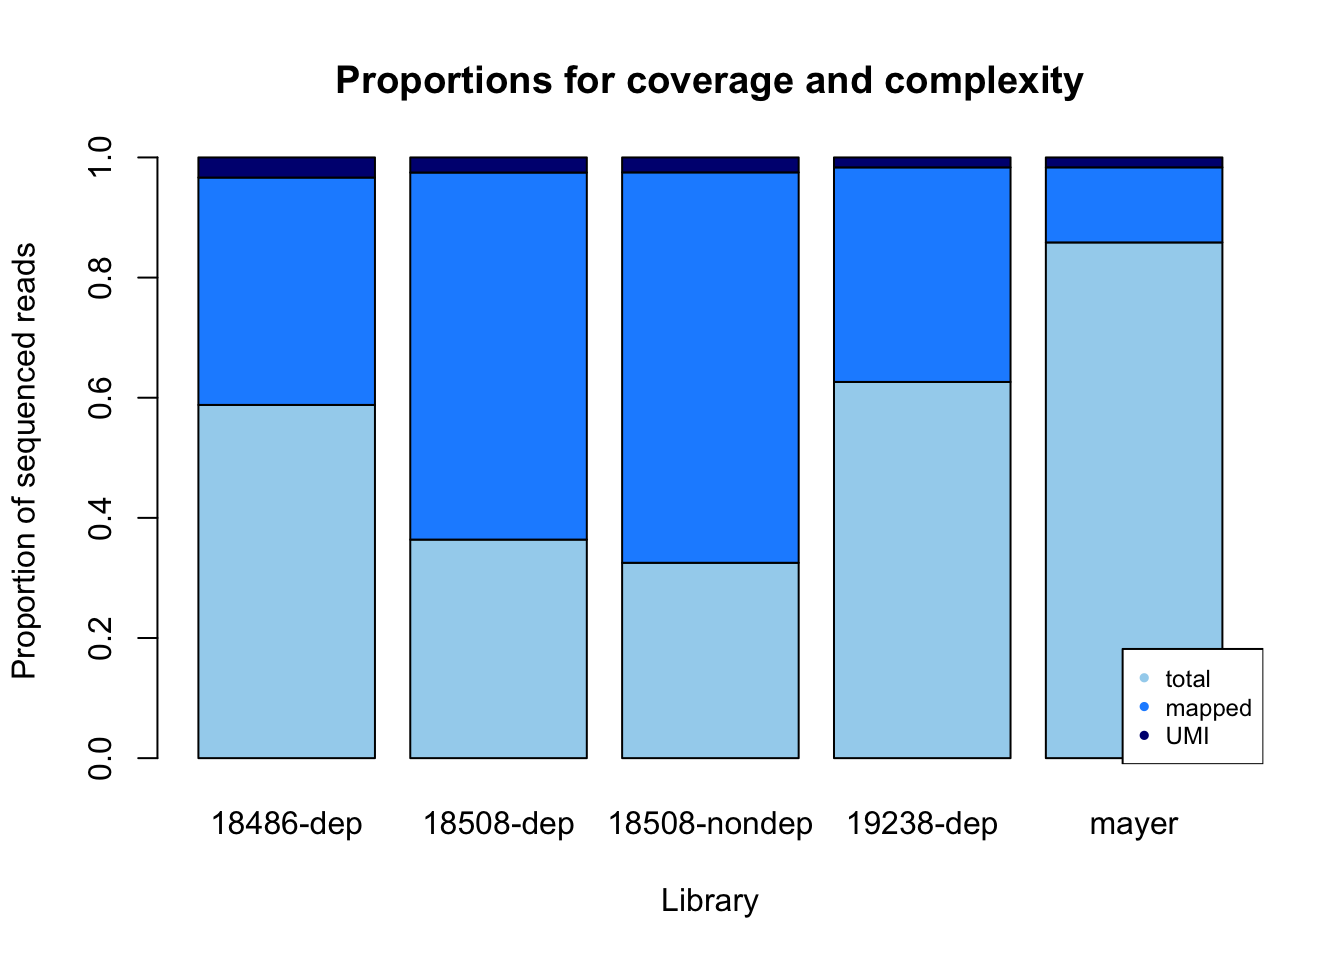
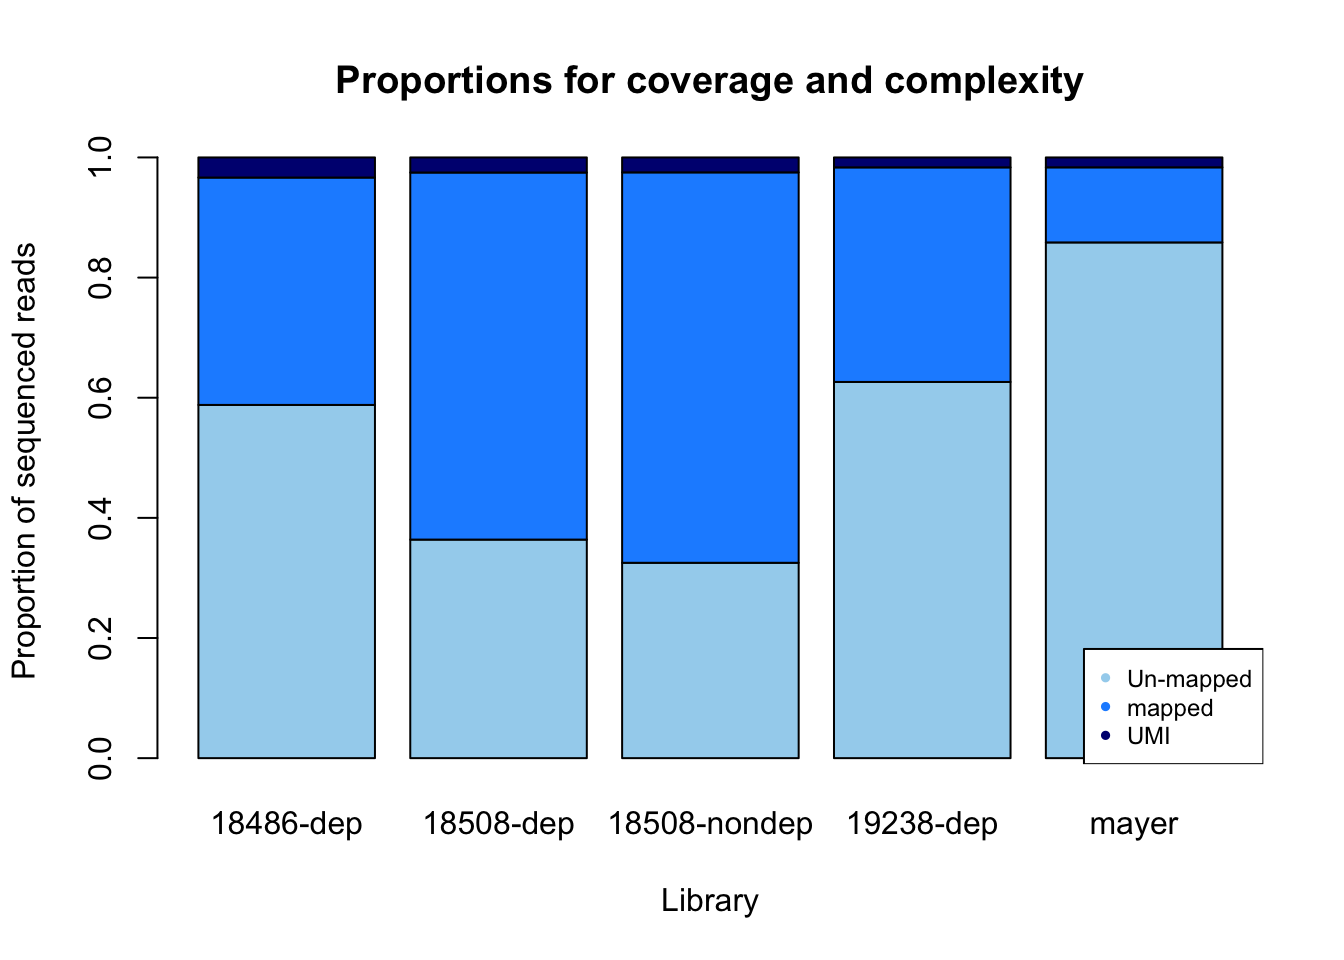
Build site.

Changed region(s): [[0.7812, 0.6562, 0.9375, 0.8125]]

diff --git a/docs/initial.data.exploration.html b/docs/initial.data.exploration.html
@@ -316,7 +316,7 @@ shared across the workflowr files. -->
 <p><strong>Last updated:</strong> 2017-11-22</p>
 <!-- Insert the code version (Git commit SHA1) if Git repository exists and R
  package git2r is installed -->
-<p><strong>Code version:</strong> ce97048</p>
+<p><strong>Code version:</strong> c327340</p>
 <!-- Add your analysis here -->
 <p>I will use this analysis to look at inital data QC and points of interests.</p>
 <p>First I looked at the number of reads that mapp to the genome before and after deduplication UMI steps.</p>
@@ -373,7 +373,7 @@ colnames(prop)= library
 prop_plot=barplot(as.matrix(prop), main=&quot;Proportions for coverage and complexity&quot;,
   xlab=&quot;Library&quot;, col=c(&quot;lightskyblue2&quot;,&quot;dodgerblue1&quot;,&quot;navy&quot;),
     ylab=&quot;Proportion of sequenced reads&quot;)
-legend(&quot;bottomright&quot;, legend = c(&quot;total&quot;, &quot;mapped&quot;, &quot;UMI&quot;), col=c(&quot;lightskyblue2&quot;,&quot;dodgerblue1&quot;,&quot;navy&quot;), pch=20, cex = 0.75)</code></pre>
+legend(&quot;bottomright&quot;, legend = c(&quot;Un-mapped&quot;, &quot;mapped&quot;, &quot;UMI&quot;), col=c(&quot;lightskyblue2&quot;,&quot;dodgerblue1&quot;,&quot;navy&quot;), pch=20, cex = 0.75)</code></pre>
 <p><img src="figure/initial.data.exploration.Rmd/unnamed-chunk-3-1.png" width="672" style="display: block; margin: auto;" /></p>
 <p>Undetermined is nothing: it corresponds to random reads</p>
 <p>From meeting:</p>
